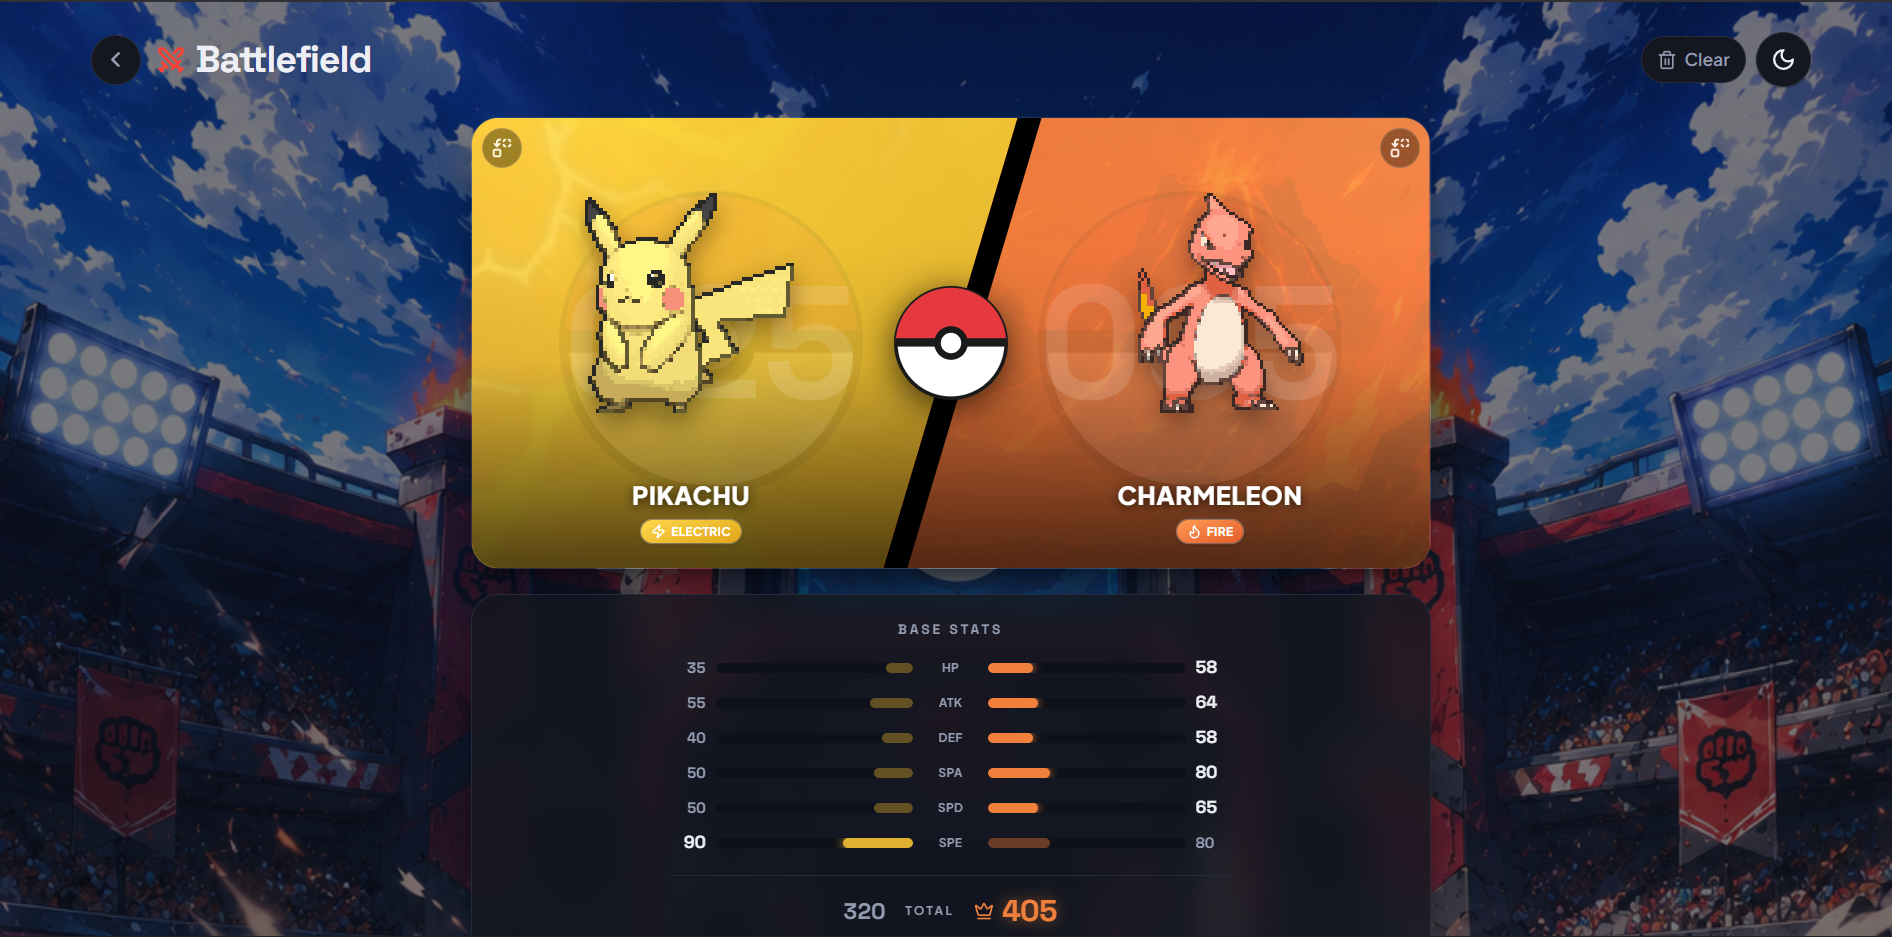
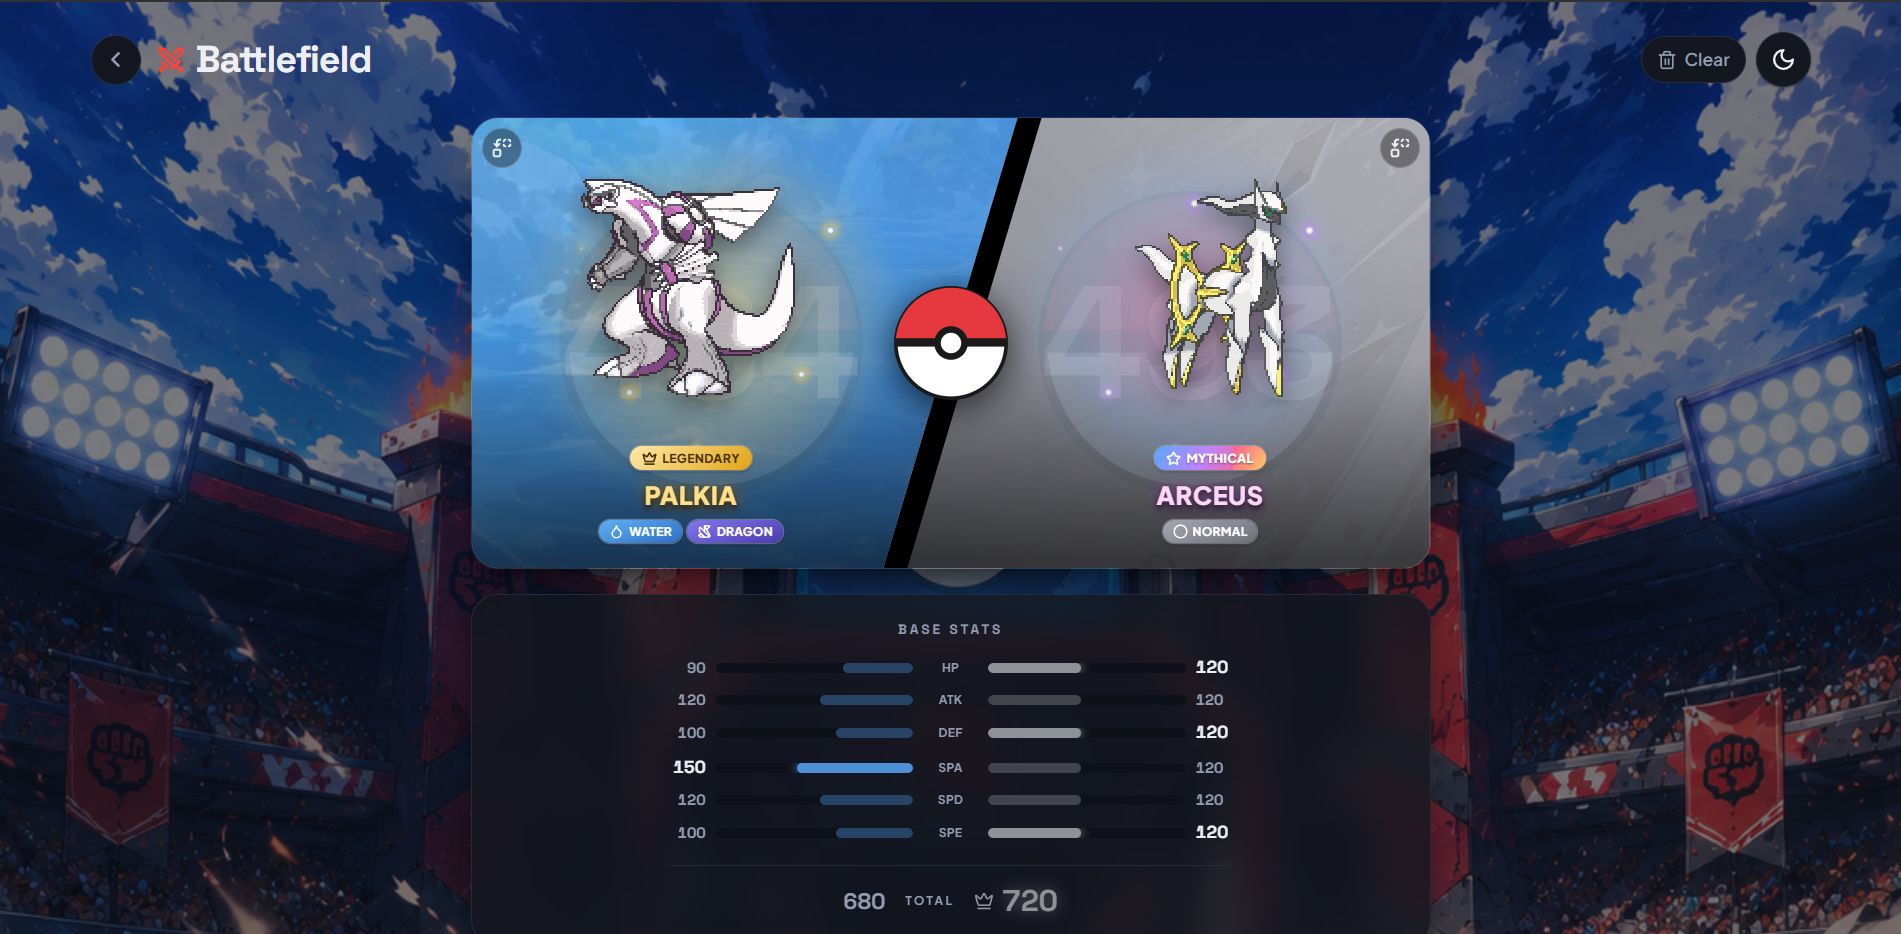
battlefield page - add rarity tags

diff --git a/src/components/compare/BattleArena.tsx b/src/components/compare/BattleArena.tsx
@@ -1,10 +1,11 @@
-import type { ReactNode } from 'react'
+import type { CSSProperties, ReactNode } from 'react'
 import { Link } from 'react-router-dom'
-import { Crown, Replace } from 'lucide-react'
+import { Crown, Replace, Sparkles, Star, type LucideIcon } from 'lucide-react'
 import type { Pokemon, PokemonTypeName } from '@/types/pokemon'
 import { getTypeConfig } from '@/constants/pokemonTypes'
 import { getTypeBackground } from '@/constants/typeBackgrounds'
-import { useTypeEffectiveness } from '@/hooks/usePokemonData'
+import { useEvolutionChain, usePokemonSpecies, useTypeEffectiveness } from '@/hooks/usePokemonData'
+import { getClassification, type Classification } from '@/utils/species'
 import {
   MAX_STAT,
   STAT_META,
@@ -195,6 +196,14 @@ export function Fighter({
 }) {
   const isB = side === 'b'
   const animated = hasAnimatedSprite(pokemon)
+
+  // Rarity / evolution stage for the banner badge and legendary/mythical FX.
+  const species = usePokemonSpecies(pokemon.id)
+  const evolution = useEvolutionChain(species.data?.evolution_chain.url)
+  const classification = getClassification(species.data, evolution.data, pokemon.name)
+  const tone = classification?.tone ?? 'neutral'
+  const showFx = tone === 'legendary' || tone === 'mythical'
+
   return (
     <div
       className={`relative flex min-h-[290px] flex-col px-2 pb-4 pt-4 sm:min-h-[360px] sm:pb-5 ${
@@ -208,6 +217,9 @@ export function Fighter({
           {String(pokemon.id).padStart(3, '0')}
         </span>
       </div>
+
+      {/* Legendary / mythical aura + sparkles, behind the sprite */}
+      {showFx && <RarityFx tone={tone as 'legendary' | 'mythical'} />}
 
       {/* Sprite */}
       <div className="relative z-10 flex flex-1 items-center justify-center">
@@ -231,9 +243,11 @@ export function Fighter({
 
       {/* Identity */}
       <div className="relative z-10 mt-2 flex flex-col items-center gap-1.5">
+        {classification && <RarityBadge classification={classification} />}
         <Link
           to={`/pokemon/${pokemon.name}`}
           className="text-base font-black uppercase tracking-wide text-white drop-shadow-[0_2px_4px_rgba(0,0,0,0.7)] hover:underline sm:text-xl"
+          style={nameGlow(tone)}
         >
           {formatName(pokemon.name)}
         </Link>
@@ -256,6 +270,86 @@ export function Fighter({
         <Replace className="h-4 w-4" strokeWidth={2.4} />
       </button>
     </div>
+  )
+}
+
+/** Positions for the twinkling sparkles around a legendary / mythical sprite. */
+const SPARK_POSITIONS = [
+  { left: '22%', top: '28%', delay: '0s' },
+  { left: '74%', top: '24%', delay: '0.5s' },
+  { left: '32%', top: '60%', delay: '1s' },
+  { left: '68%', top: '56%', delay: '0.3s' },
+  { left: '50%', top: '18%', delay: '0.8s' },
+  { left: '46%', top: '72%', delay: '1.3s' },
+]
+
+/** Pulsing aura + drifting sparkles rendered behind a rare fighter's sprite. */
+function RarityFx({ tone }: { tone: 'legendary' | 'mythical' }) {
+  return (
+    <div
+      className={`rarity-fx pointer-events-none absolute inset-0 z-0 ${
+        tone === 'legendary' ? 'legendary-fx' : 'mythical-fx'
+      }`}
+      aria-hidden="true"
+    >
+      {SPARK_POSITIONS.map((p, i) => (
+        <span key={i} className="rarity-spark" style={{ left: p.left, top: p.top, animationDelay: p.delay }} />
+      ))}
+    </div>
+  )
+}
+
+/** Name glow that matches the rarity aura (gold / prismatic), plain otherwise. */
+function nameGlow(tone: Classification['tone']): CSSProperties | undefined {
+  if (tone === 'legendary') {
+    return { color: '#ffe08a', textShadow: '0 0 12px rgba(255,200,80,0.7), 0 2px 4px rgba(0,0,0,0.8)' }
+  }
+  if (tone === 'mythical') {
+    return { color: '#ffd7f4', textShadow: '0 0 12px rgba(210,130,255,0.75), 0 2px 4px rgba(0,0,0,0.8)' }
+  }
+  return undefined
+}
+
+/** The banner rarity / stage chip (Legendary, Mythical, Baby, or Basic/Stage 1/2). */
+function RarityBadge({ classification }: { classification: Classification }) {
+  const { tone, label } = classification
+  if (tone === 'legendary') {
+    return (
+      <RarityChip Icon={Crown} label={label} style={{ background: 'linear-gradient(135deg,#ffe9a8,#e0a416)', color: '#4a3400' }} />
+    )
+  }
+  if (tone === 'mythical') {
+    return (
+      <RarityChip Icon={Star} label={label} className="tcg-rainbow-foil" style={{ color: '#fff', textShadow: '0 1px 2px rgba(0,0,0,0.55)' }} />
+    )
+  }
+  if (tone === 'baby') {
+    return (
+      <RarityChip Icon={Sparkles} label={label} style={{ background: 'linear-gradient(135deg,#8fe0d6,#2f9c8f)', color: '#053033' }} />
+    )
+  }
+  return <RarityChip label={label} style={{ background: 'rgba(0,0,0,0.45)', color: 'rgba(255,255,255,0.92)' }} />
+}
+
+function RarityChip({
+  Icon,
+  label,
+  className = '',
+  style,
+}: {
+  Icon?: LucideIcon
+  label: string
+  className?: string
+  style?: CSSProperties
+}) {
+  return (
+    <span
+      className={`inline-flex items-center gap-1 rounded-full px-2.5 py-0.5 text-[0.62rem] font-black uppercase tracking-wide shadow-[0_1px_3px_rgba(0,0,0,0.45)] ring-1 ring-white/25 ${className}`}
+      style={style}
+    >
+      {Icon && <Icon className="h-3 w-3 shrink-0" strokeWidth={2.6} />}
+      {label}
+    </span>
   )
 }
 

diff --git a/src/index.css b/src/index.css
@@ -788,6 +788,65 @@
   filter: drop-shadow(0 8px 10px rgba(0, 0, 0, 0.4));
 }
 
+/* Legendary / mythical fighter treatment — a pulsing aura and drifting sparkles
+   behind the sprite (gold for legendary, prismatic for mythical). */
+.rarity-fx {
+  overflow: hidden;
+}
+.rarity-fx::before {
+  content: '';
+  position: absolute;
+  left: 50%;
+  top: 44%;
+  width: 80%;
+  aspect-ratio: 1 / 1;
+  transform: translate(-50%, -50%);
+  border-radius: 50%;
+  filter: blur(4px);
+}
+.legendary-fx::before {
+  background: radial-gradient(circle, rgba(255, 214, 110, 0.6), rgba(255, 186, 54, 0.22) 46%, transparent 68%);
+  animation: rarity-pulse 3s ease-in-out infinite;
+}
+.mythical-fx::before {
+  background: radial-gradient(circle, rgba(255, 120, 205, 0.5), rgba(120, 175, 255, 0.3) 44%, transparent 68%);
+  animation: rarity-pulse 3.4s ease-in-out infinite;
+}
+@keyframes rarity-pulse {
+  0%, 100% { opacity: 0.65; transform: translate(-50%, -50%) scale(0.95); }
+  50% { opacity: 1; transform: translate(-50%, -50%) scale(1.08); }
+}
+.rarity-spark {
+  position: absolute;
+  width: 7px;
+  height: 7px;
+  border-radius: 50%;
+  background: radial-gradient(circle, #fff 20%, rgba(255, 255, 255, 0) 72%);
+  opacity: 0;
+  animation: rarity-twinkle 2.2s ease-in-out infinite;
+}
+.legendary-fx .rarity-spark {
+  box-shadow: 0 0 7px 2px rgba(255, 206, 84, 0.95);
+}
+.mythical-fx .rarity-spark {
+  box-shadow: 0 0 7px 2px rgba(198, 140, 255, 0.95);
+}
+@keyframes rarity-twinkle {
+  0%, 100% { opacity: 0; transform: scale(0.3); }
+  45%, 55% { opacity: 1; transform: scale(1); }
+}
+@media (prefers-reduced-motion: reduce) {
+  .legendary-fx::before,
+  .mythical-fx::before {
+    animation: none;
+    opacity: 0.8;
+  }
+  .rarity-spark {
+    animation: none;
+    opacity: 0.55;
+  }
+}
+
 /* Skeleton shimmer */
 .skeleton {
   position: relative;
